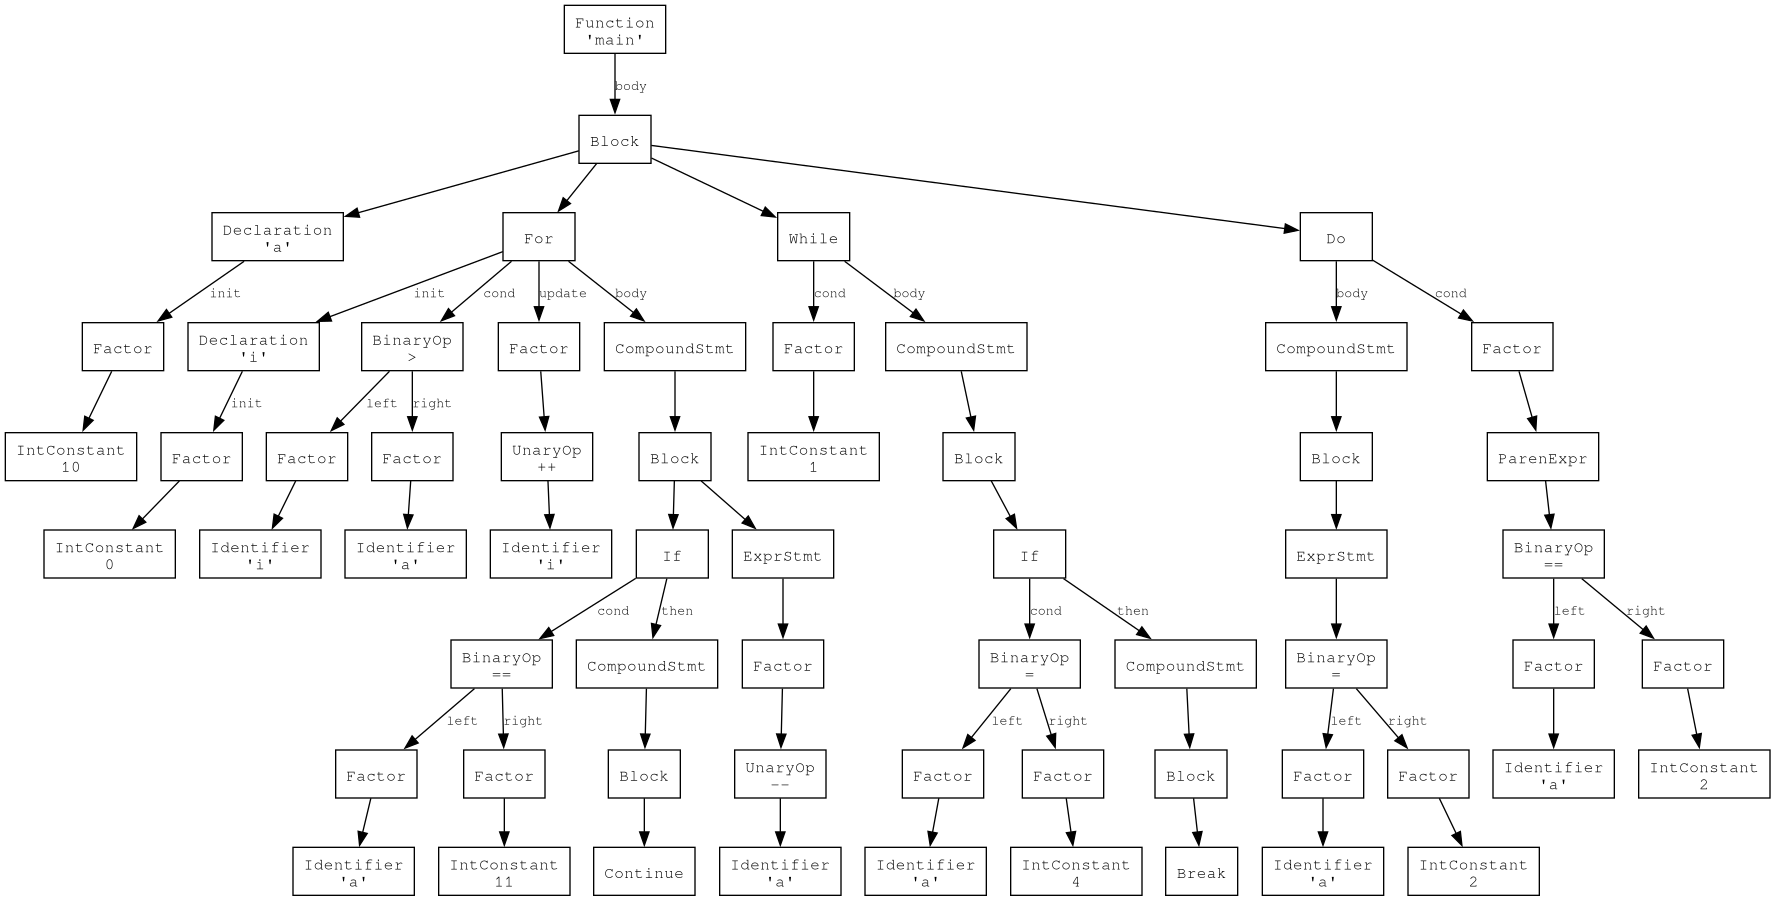
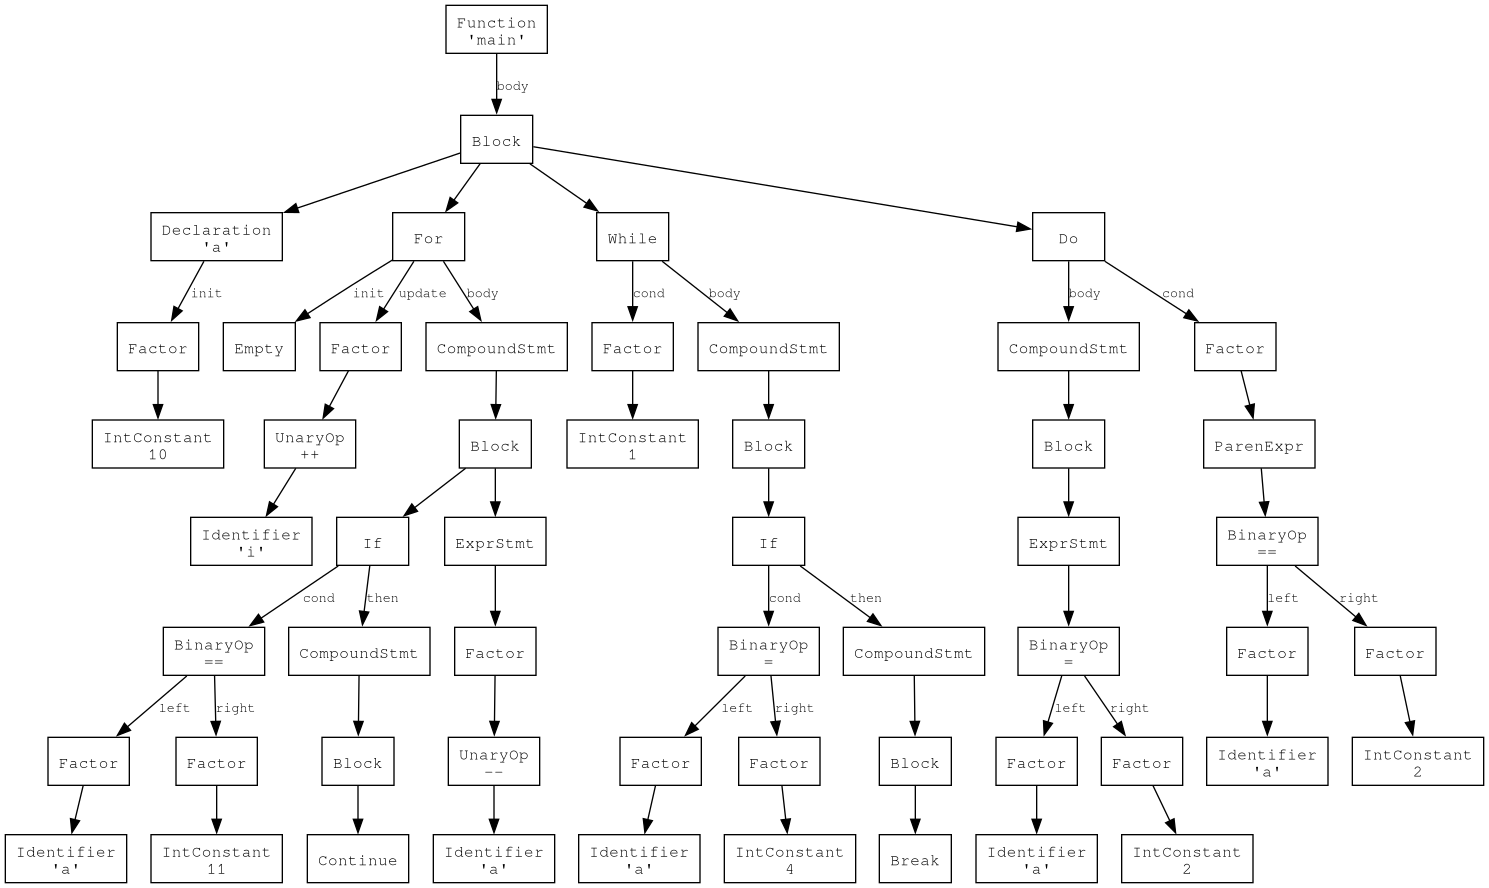
Fixed Bug. Loop Functionality Complete

diff --git a/parser.c b/parser.c
@@ -350,10 +350,10 @@ AST_statement makeStatement(int *i, Tokens *tokens) {
             if (curToken.type != TOKEN_PUNCTUATOR || curToken.punctuator != TOKEN_SEMICOLON) {
                 error("Exprected Semicolon After Expression In For Loop Condition");
             }
-            increaseIndex(i);
-            curToken = tokens->tokens[*i];
         }
-        if (curToken.type != TOKEN_PUNCTUATOR || curToken.punctuator != TOKEN_LEFT_PAREN) {
+        increaseIndex(i);
+        curToken = tokens->tokens[*i];
+        if (curToken.type != TOKEN_PUNCTUATOR || curToken.punctuator != TOKEN_RIGHT_PAREN) {
             if (output.for_statement->type == AST_FOR_CONDITION) {
                 output.for_statement->type = AST_FOR_BOTH;
             } else {

diff --git a/printer.c b/printer.c
@@ -409,9 +409,6 @@ int printBlock(AST_block *block) {
 }
 
 void astPrinter(AST *ast) {
-    for (;;) {
-
-    }
     char *filename = "COMPILERTEMP18h8hw8h2828h28h28h2h8wbsd892j";
     // Open file for writing
     outputFile = fopen(filename, "w");
